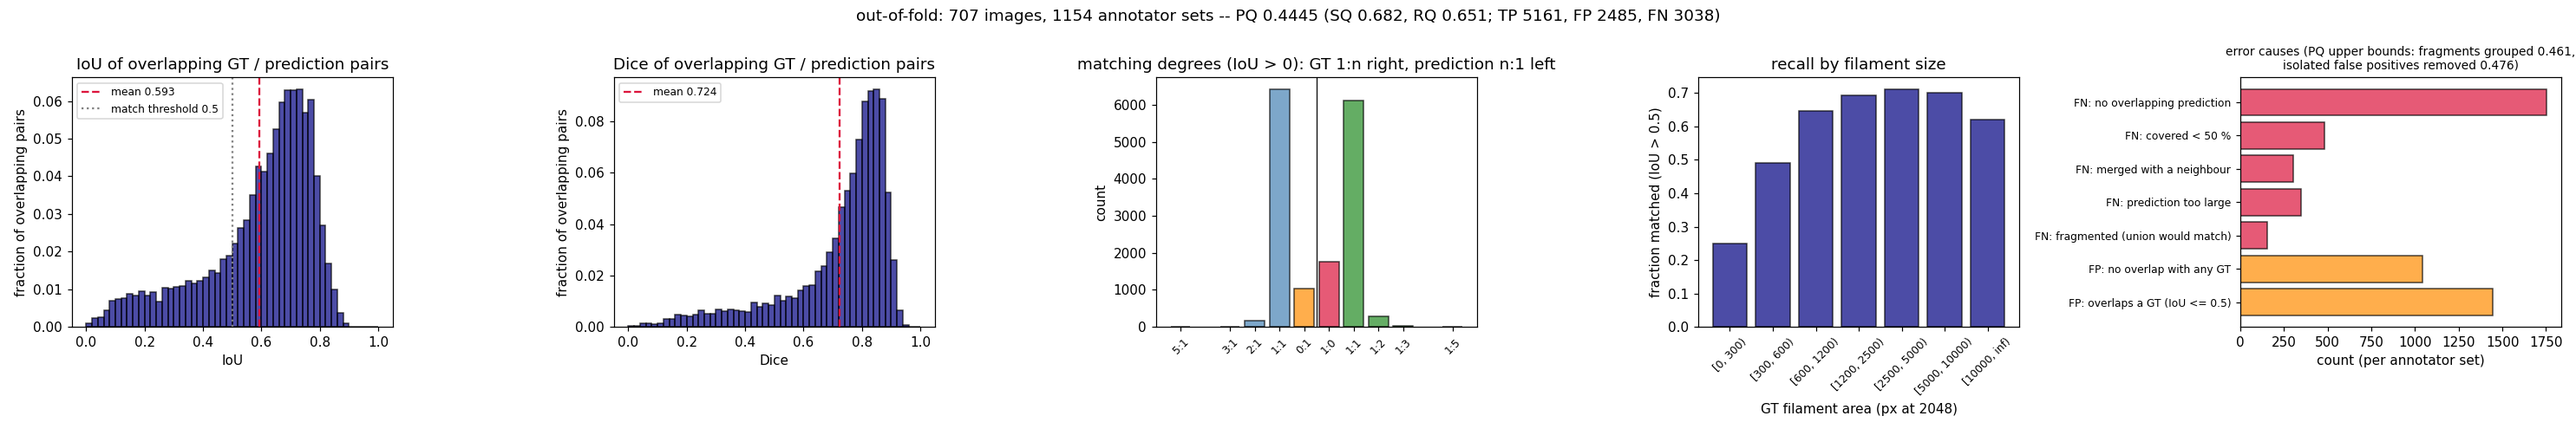
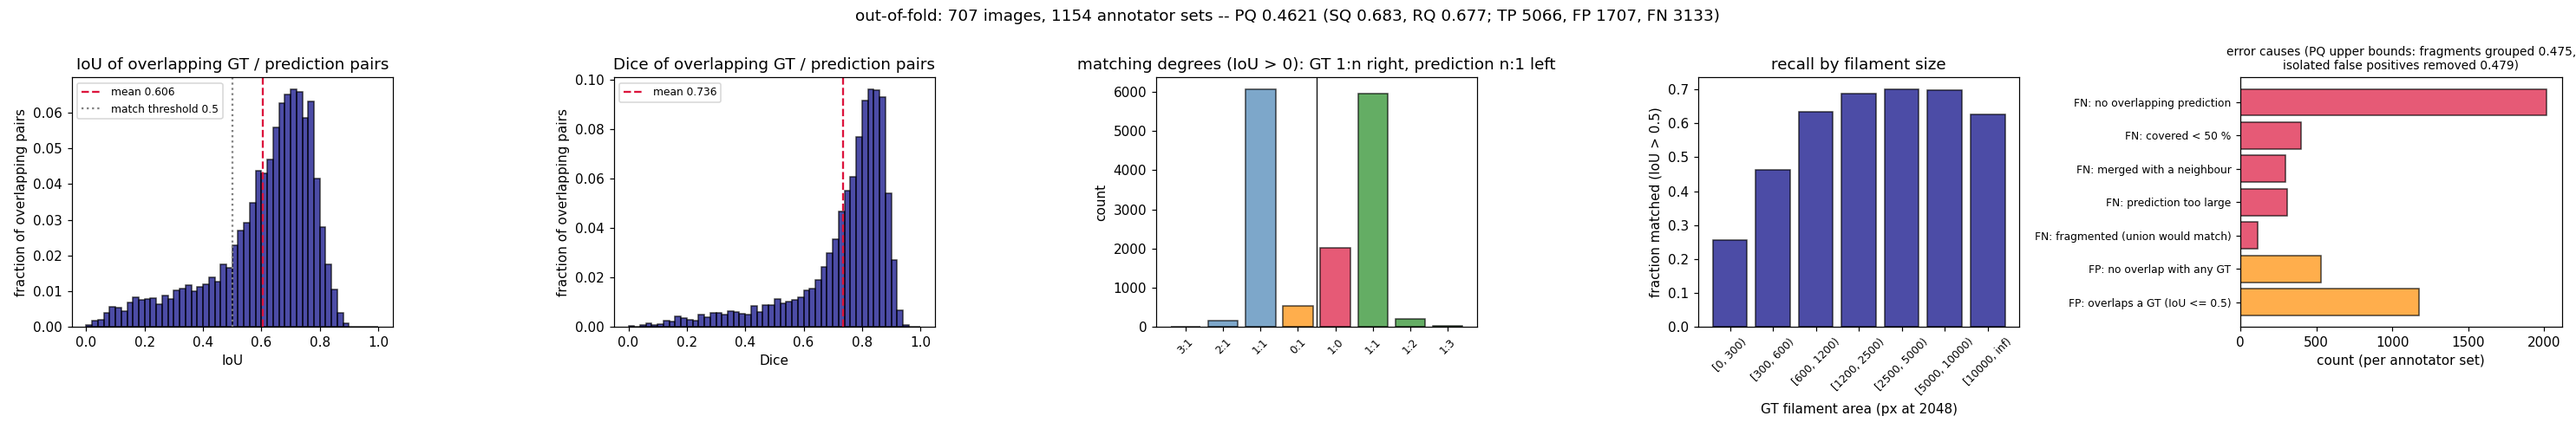
Final-configuration evaluation figures and numbers (full / fast); evaluation JSON summarises the learned filter

diff --git a/docs/report/main.tex b/docs/report/main.tex
@@ -145,8 +145,9 @@ ensemble matches 62\,\% of the annotated filaments (SQ 0.68). On images with sev
 matches 82\,\% of the filaments that another annotator also drew, but only 32\,\% of those drawn by a
 single annotator. Of the filaments without any overlapping prediction (25\,\%), 71\,\% are smaller
 than 1,200\,px and 74\,\% contain probabilities above 0.5---the network sees them, but keeping them
-would cost more false positives than it gains. Fragmentation and merging are rare (one-to-many and
-many-to-one relations in Fig.~\ref{fig:eval}). Even an oracle that groups fragments optimally across
+would cost more false positives than it gains. Fragmentation and merging are rare: 2.8\,\% of the annotated
+filaments overlap two or more predictions and 2.6\,\% of the predictions overlap two or more filaments
+(Fig.~\ref{fig:eval}). Even an oracle that groups fragments optimally across
 detection levels would gain only 0.003 PQ, whereas an oracle choosing each component's outline would
 gain 0.012: the remaining errors are mostly faint, small or annotator-specific filaments and outlines
 that decide whether a match crosses IoU 0.5.

diff --git a/scripts/make_figures.py b/scripts/make_figures.py
@@ -194,7 +194,10 @@ def evaluation(probs_paths: list, post_json: Path, gt_cache: Path | None,
     fig.tight_layout()
     fig.savefig(path, dpi=110)
     plt.close(fig)
-    summary = {"images": len(probs), "entries": len(gt), "post": json.loads(Path(post_json).read_text()),
+    post = json.loads(Path(post_json).read_text())
+    if post.get("scorer"):  # summarise the learned filter (the full trees live in the post-processing JSON)
+        post["scorer"] = {"trees": len(post["scorer"]["trees"]), "features": post["scorer"]["features"]}
+    summary = {"images": len(probs), "entries": len(gt), "post": post,
                "pq": res.pq, "sq": res.sq, "rq": res.rq, "tp": res.tp, "fp": res.fp, "fn": res.fn,
                "mean_iou_overlapping": float(iou.mean()), "mean_dice_overlapping": float(dice.mean()),
                "gt_degrees": {int(k): int(v) for k, v in sorted(gdeg.items())},

diff --git a/docs/report_draft.md b/docs/report_draft.md
@@ -139,8 +139,9 @@ T4 GPU; five EfficientNetV2-S networks alone reach 0.444 at 5.3 s per image.
 (Fold-0 and fold-mean numbers use one fixed rule; "nested" numbers are pooled over the outer
 folds of a nested cross-validation of the post-processing on all 707 out-of-fold images.)
 
-* Error profile of the final ensemble (707 out-of-fold images, 8,199 GT filaments of 1,154
-  annotator sets): 63 % matched, SQ 0.68. Of the unmatched GT filaments 58 % have no
+* Error profile of the final configuration (ensemble + learned filter; 707 out-of-fold images,
+  8,199 GT filaments of 1,154 annotator sets; in-sample for the filter): PQ 0.462, 62 % matched,
+  SQ 0.68, 1,707 false positives (531 without any overlap). Of the unmatched GT filaments 64 % have no
   overlapping prediction (71 % of them < 1,200 px; 74 % contain probabilities >= 0.5, i.e. the
   network sees them but the filter drops them). On images with several annotators the ensemble
   (learned filter) matches 82 % of the filaments that another annotator also drew but only 32 %

diff --git a/docs/experiments.md b/docs/experiments.md
@@ -136,3 +136,9 @@ scored separately. LB = public leaderboard (~50 % of the test images).
   headroom is the per-component outline, which decides whether borderline matches cross IoU 0.5. A global
   tighter outline does not capture it (final configuration, all 707 OOF images: outline 0.45 / 0.5 / 0.55 /
   0.6 / 0.65 -> PQ 0.4612 / 0.4620 / 0.4623 / 0.4617 / 0.4614, in-sample for the filter); not pursued further.
+* Final configuration evaluated on all 707 out-of-fold images (fil-eval2; in-sample for the learned filter):
+  full ensemble PQ 0.4621 (SQ 0.683, RQ 0.677; TP 5,066, FP 1,707, FN 3,133); fast profile 0.4574. Compared
+  with the plain rule, isolated false positives drop from 1,041 to 531. FN causes: 2,016 missed, 401 partial,
+  310 too large, 295 merged, 111 fragmented. GT overlapping >= 2 predictions: 2.8 %; predictions overlapping
+  >= 2 GT: 2.6 %. Mean IoU / Dice of overlapping pairs 0.606 / 0.736. `docs/evaluation*.json`, figures in
+  `docs/figures/evaluation*.png`.
